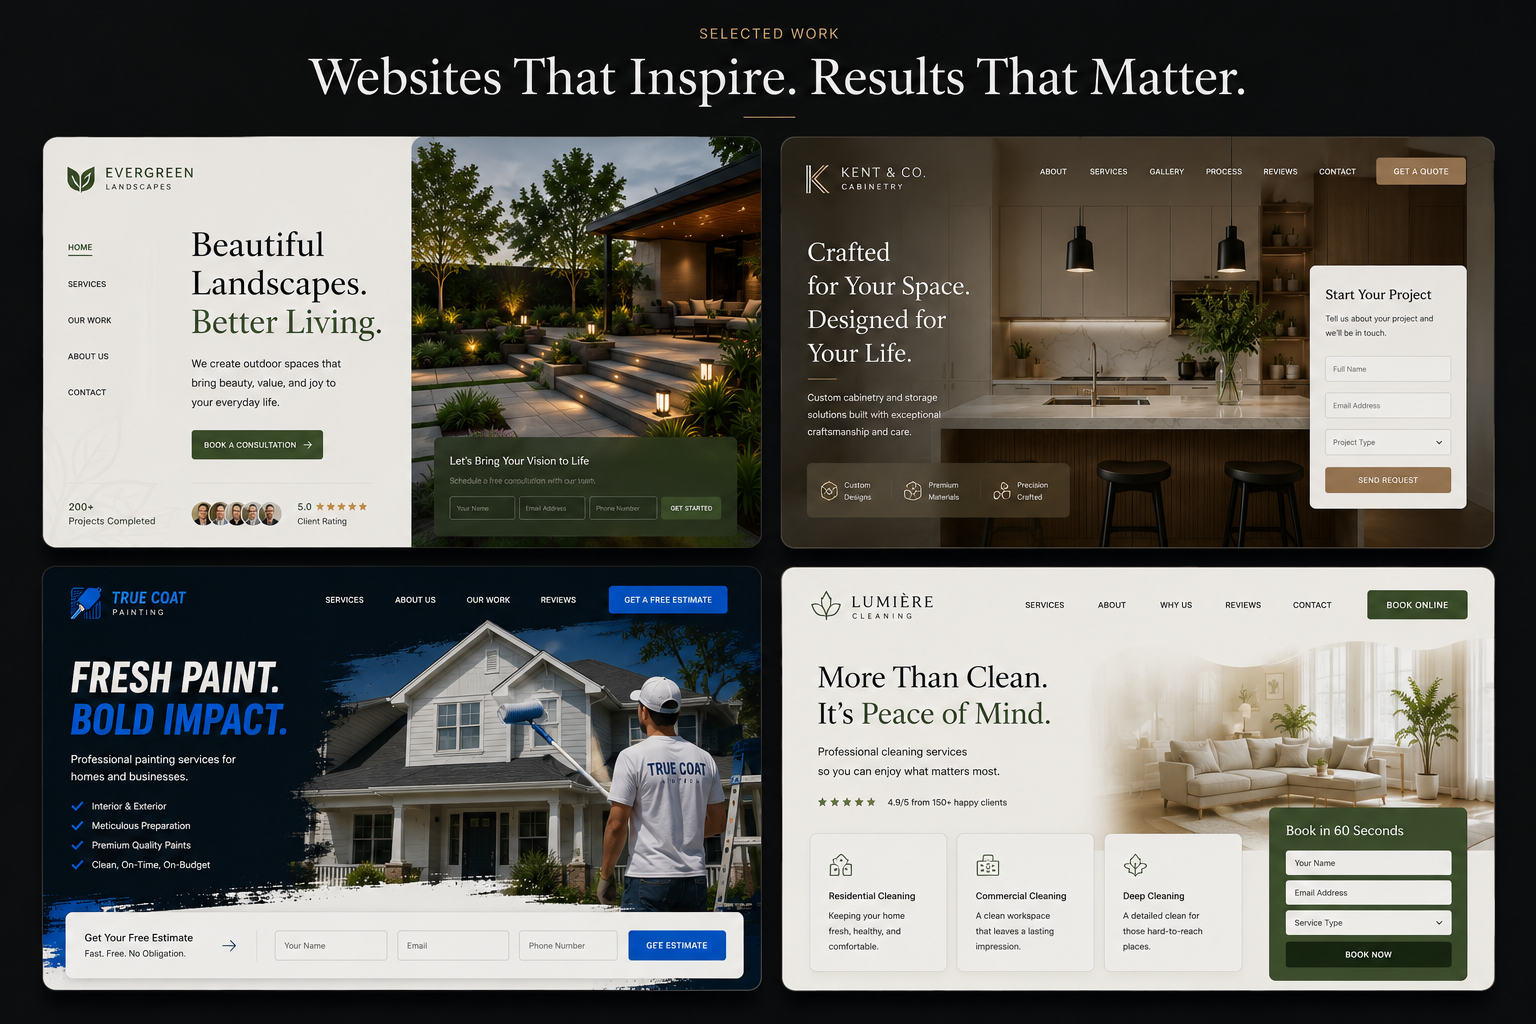
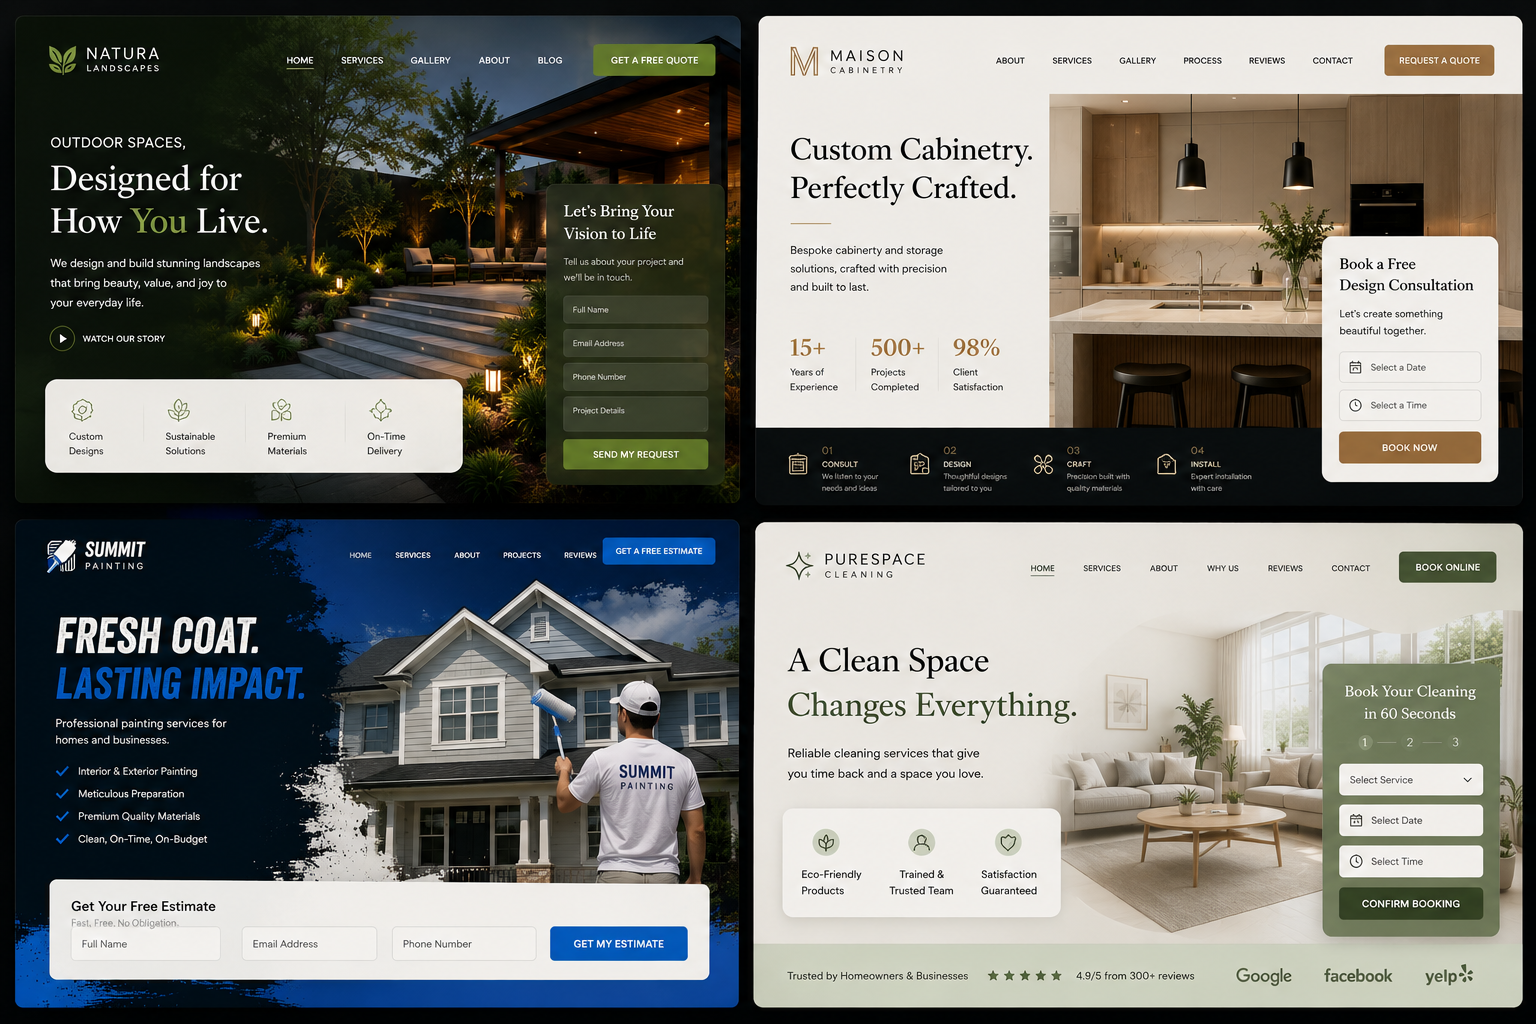
Portfolio redesign — 4 individual cards with quadrant image cropping
Split the composite portfolio image into 4 separate cards using CSS
background-position (0/100% × 0/100%) with background-size: 200% 200%.
Each card shows one website hero (Natura Landscapes, Maison Cabinetry,
Summit Painting, PureSpace Cleaning) with trade label, business name
and suburb. Added portfolio CTA strip below grid. Updated new portfolio.png.

Claude-Session: https://claude.ai/code/session_01EjUhftRQvD1BkfhSBGN4pM

diff --git a/index.html b/index.html
@@ -121,17 +121,23 @@ a { color: inherit; text-decoration: none; }
 
 /* ─── PORTFOLIO ─── */
 .portfolio { padding: 96px 0 0; background: var(--white); }
-.portfolio__head { margin-bottom: 48px; }
+.portfolio__head { margin-bottom: 56px; }
 .portfolio__head h2 { font-size: clamp(28px, 3vw, 42px); font-weight: 700; color: var(--black); letter-spacing: -.025em; line-height: 1.12; margin-bottom: 10px; }
-.portfolio__head p { font-size: 16px; color: var(--muted); max-width: 440px; }
-.portfolio__image { width: 100%; overflow: hidden; }
-.portfolio__image img { width: 100%; height: auto; display: block; }
-.portfolio__credits { display: grid; grid-template-columns: repeat(4, 1fr); border-top: 1px solid var(--rule); margin-top: 0; }
-.credit { padding: 22px 24px; border-right: 1px solid var(--rule); }
-.credit:last-child { border-right: none; }
-.credit__trade { display: block; font-size: 10px; font-weight: 700; letter-spacing: .1em; text-transform: uppercase; color: var(--red); margin-bottom: 3px; }
-.credit__name { font-size: 14px; font-weight: 700; color: var(--black); }
-.credit__loc { font-size: 13px; color: var(--muted); }
+.portfolio__head p { font-size: 16px; color: var(--muted); max-width: 480px; }
+.portfolio__grid { display: grid; grid-template-columns: 1fr 1fr; border-top: 1px solid var(--rule); border-left: 1px solid var(--rule); }
+.portfolio__card { overflow: hidden; border-right: 1px solid var(--rule); border-bottom: 1px solid var(--rule); }
+.portfolio__card-img { height: 340px; background-image: url('portfolio.png'); background-size: 200% 200%; background-repeat: no-repeat; transition: transform .5s cubic-bezier(.25,.46,.45,.94); }
+.portfolio__card:hover .portfolio__card-img { transform: scale(1.03); }
+.portfolio__card--tl .portfolio__card-img { background-position: 0% 0%; }
+.portfolio__card--tr .portfolio__card-img { background-position: 100% 0%; }
+.portfolio__card--bl .portfolio__card-img { background-position: 0% 100%; }
+.portfolio__card--br .portfolio__card-img { background-position: 100% 100%; }
+.portfolio__card-info { padding: 18px 24px; border-top: 1px solid var(--rule); display: flex; align-items: baseline; gap: 10px; flex-wrap: wrap; }
+.portfolio__trade { font-size: 10px; font-weight: 700; letter-spacing: .1em; text-transform: uppercase; color: var(--red); }
+.portfolio__name { font-size: 14px; font-weight: 700; color: var(--black); }
+.portfolio__loc { font-size: 13px; color: var(--muted); margin-left: auto; }
+.portfolio__cta { padding: 40px 0 88px; display: flex; align-items: center; gap: 28px; flex-wrap: wrap; }
+.portfolio__cta p { font-size: 18px; font-weight: 700; color: var(--black); letter-spacing: -.01em; }
 
 
 /* ─── PAIN ─── */
@@ -305,10 +311,7 @@ a { color: inherit; text-decoration: none; }
   .stats-bar__inner { grid-template-columns: repeat(2, 1fr); }
   .stat-item:nth-child(2) { border-right: none; }
   .stat-item:nth-child(3) { border-right: 1px solid rgba(255,255,255,.07); }
-  .portfolio__credits { grid-template-columns: repeat(2, 1fr); }
-  .credit:nth-child(2) { border-right: none; }
-  .credit:nth-child(3) { border-top: 1px solid var(--rule); }
-  .credit:nth-child(4) { border-top: 1px solid var(--rule); }
+  .portfolio__card-img { height: 260px; }
   .pain__inner { grid-template-columns: 1fr; gap: 40px; }
   .offer__inner { grid-template-columns: 1fr; gap: 40px; }
   .offer__right { padding-top: 0; border-top: 1px solid var(--rule); padding-top: 40px; }
@@ -337,7 +340,8 @@ a { color: inherit; text-decoration: none; }
   .hero { padding: 56px 0 48px; }
   .hero__trust { flex-direction: column; align-items: flex-start; gap: 8px; }
   .hero__trust-dot { display: none; }
-  .portfolio__credits { grid-template-columns: 1fr 1fr; }
+  .portfolio__card-img { height: 190px; }
+  .portfolio__cta { flex-direction: column; align-items: flex-start; gap: 16px; padding-bottom: 60px; }
   .trades__grid { grid-template-columns: repeat(2, 1fr); }
   .process__steps { grid-template-columns: 1fr; }
 }
@@ -424,35 +428,48 @@ a { color: inherit; text-decoration: none; }
     <div class="wrap">
       <div class="portfolio__head reveal">
         <span class="eyebrow">Selected Work</span>
-        <h2 id="portfolio-heading">Tradie Websites We've Built</h2>
-        <p>High-converting sites designed to get your phone ringing from day one.</p>
+        <h2 id="portfolio-heading">Sites That Make Tradies The Obvious Choice</h2>
+        <p>Clean, fast, built to convert. Every site we deliver is designed to win jobs, not just exist online.</p>
       </div>
     </div>
-    <div class="portfolio__image reveal">
-      <img src="portfolio.png" alt="Portfolio of tradie websites built by Trade Kings Agency — landscaping, cabinetry, painting and cleaning businesses">
+    <div class="portfolio__grid reveal">
+      <article class="portfolio__card portfolio__card--tl">
+        <div class="portfolio__card-img" role="img" aria-label="Natura Landscapes website hero"></div>
+        <div class="portfolio__card-info">
+          <span class="portfolio__trade">Landscaping</span>
+          <strong class="portfolio__name">Natura Landscapes</strong>
+          <span class="portfolio__loc">South Perth, WA</span>
+        </div>
+      </article>
+      <article class="portfolio__card portfolio__card--tr">
+        <div class="portfolio__card-img" role="img" aria-label="Maison Cabinetry website hero"></div>
+        <div class="portfolio__card-info">
+          <span class="portfolio__trade">Cabinetry</span>
+          <strong class="portfolio__name">Maison Cabinetry</strong>
+          <span class="portfolio__loc">Cottesloe, WA</span>
+        </div>
+      </article>
+      <article class="portfolio__card portfolio__card--bl">
+        <div class="portfolio__card-img" role="img" aria-label="Summit Painting website hero"></div>
+        <div class="portfolio__card-info">
+          <span class="portfolio__trade">Painting</span>
+          <strong class="portfolio__name">Summit Painting Co.</strong>
+          <span class="portfolio__loc">Fremantle, WA</span>
+        </div>
+      </article>
+      <article class="portfolio__card portfolio__card--br">
+        <div class="portfolio__card-img" role="img" aria-label="PureSpace Cleaning website hero"></div>
+        <div class="portfolio__card-info">
+          <span class="portfolio__trade">Cleaning</span>
+          <strong class="portfolio__name">PureSpace Cleaning</strong>
+          <span class="portfolio__loc">Subiaco, WA</span>
+        </div>
+      </article>
     </div>
     <div class="wrap">
-      <div class="portfolio__credits">
-        <div class="credit">
-          <span class="credit__trade">Landscaping</span>
-          <span class="credit__name">Evergreen Landscapes</span>
-          <span class="credit__loc">Perth, WA</span>
-        </div>
-        <div class="credit">
-          <span class="credit__trade">Cabinetry</span>
-          <span class="credit__name">Kent &amp; Co Cabinetry</span>
-          <span class="credit__loc">Subiaco, WA</span>
-        </div>
-        <div class="credit">
-          <span class="credit__trade">Painting</span>
-          <span class="credit__name">True Coat Painting</span>
-          <span class="credit__loc">Fremantle, WA</span>
-        </div>
-        <div class="credit">
-          <span class="credit__trade">Cleaning</span>
-          <span class="credit__name">Lumière Cleaning</span>
-          <span class="credit__loc">Cottesloe, WA</span>
-        </div>
+      <div class="portfolio__cta reveal">
+        <p>Your trade. Your suburb. Your phone ringing.</p>
+        <a href="#contact" class="btn btn-red">Get My Free Quote</a>
       </div>
     </div>
   </section>
